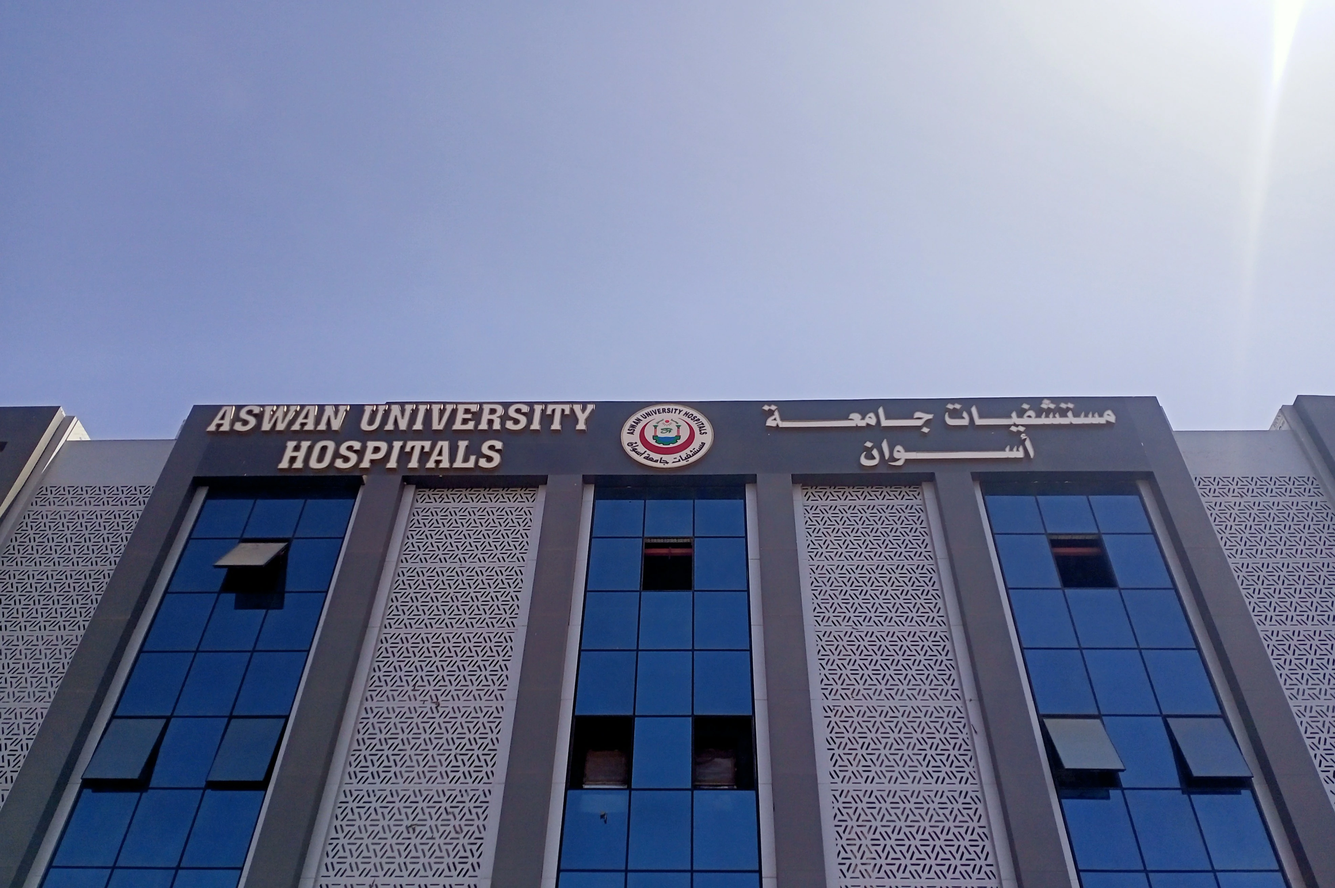
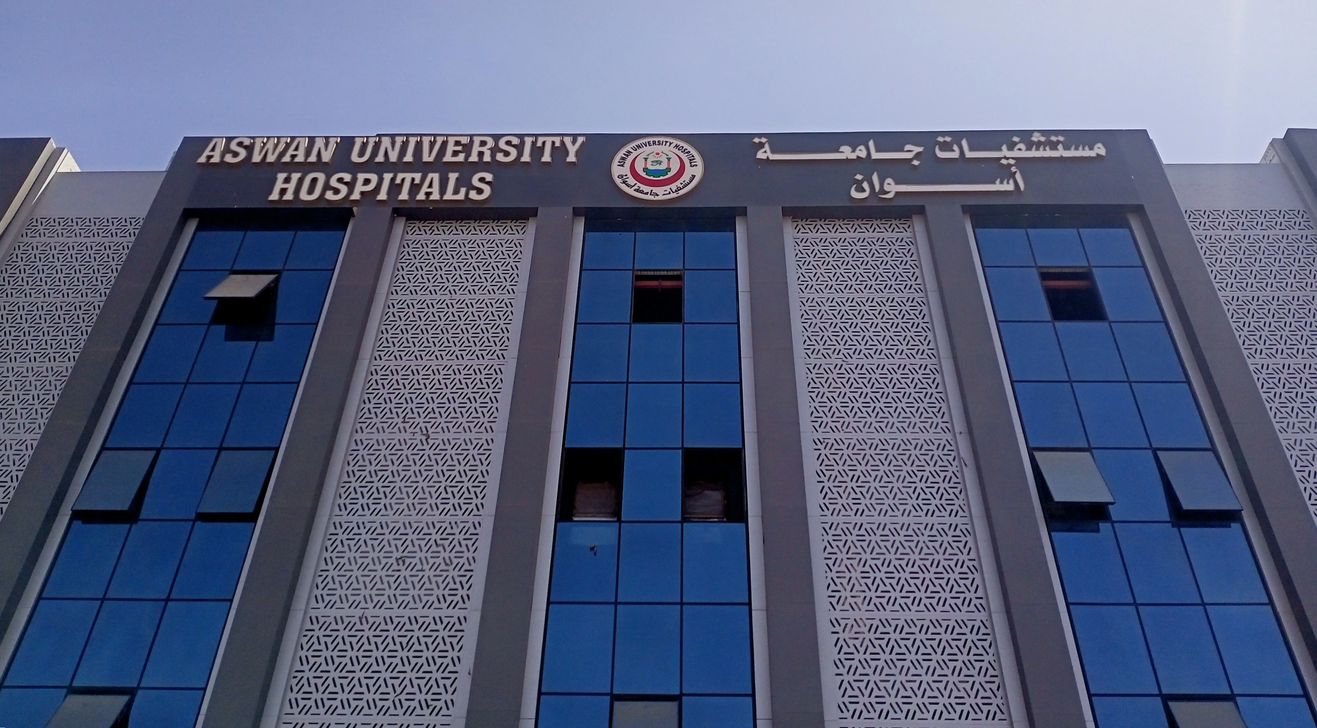
hero optimized

diff --git a/index.html b/index.html
@@ -21,14 +21,16 @@
   <link href="https://fonts.gstatic.com" rel="preconnect" crossorigin>
   <link href="https://fonts.googleapis.com/css2?family=Cairo:wght@200..1000&display=swap" rel="stylesheet">
   <!-- Vendor CSS Files -->
-  <link href="assets/vendor/bootstrap/css/bootstrap.min.css" rel="stylesheet">
-
+  <!-- <link href="assets/vendor/bootstrap/css/bootstrap.min.css" rel="stylesheet"> -->
+  <!-- cdn for faster loading -->
+   <link rel="stylesheet" href="https://cdnjs.cloudflare.com/ajax/libs/bootstrap/5.3.3/css/bootstrap.min.css">
   <link href="assets/vendor/bootstrap-icons/bootstrap-icons.css" rel="stylesheet">
   <link href="assets/vendor/aos/aos.css" rel="stylesheet">
   <link href="assets/vendor/fontawesome-free/css/all.min.css" rel="stylesheet">
   <link href="assets/vendor/glightbox/css/glightbox.min.css" rel="stylesheet">
   <link href="assets/vendor/swiper/swiper-bundle.min.css" rel="stylesheet">
 
+   
   <!-- Main CSS File -->
   <link href="assets/css/main.css" rel="stylesheet">
   <!-- RTL-->
@@ -98,7 +100,7 @@
       <div id="hero-carousel" class="carousel slide carousel-fade rtl" data-bs-ride="carousel" data-bs-interval="5000" dir="ltr">
 
         <div class="carousel-item active" >
-          <img src="assets/img/hero-carousel/aswan-edu-hosp.webp" alt="">
+          <img src="assets/img/hero-carousel/IMG20250320124459-5.webp" alt="">
           <div class="container">
             <h2>مستشفى أسوان الجامعي: مركز طبي رائد في جنوب مصر</h2>
             <p>مستشفى أسوان الجامعي هي المستشفى الوحيدة في محافظة أسوان التي تستقبل المرضى من جميع أنحاء المحافظة والمحافظات المجاورة.
